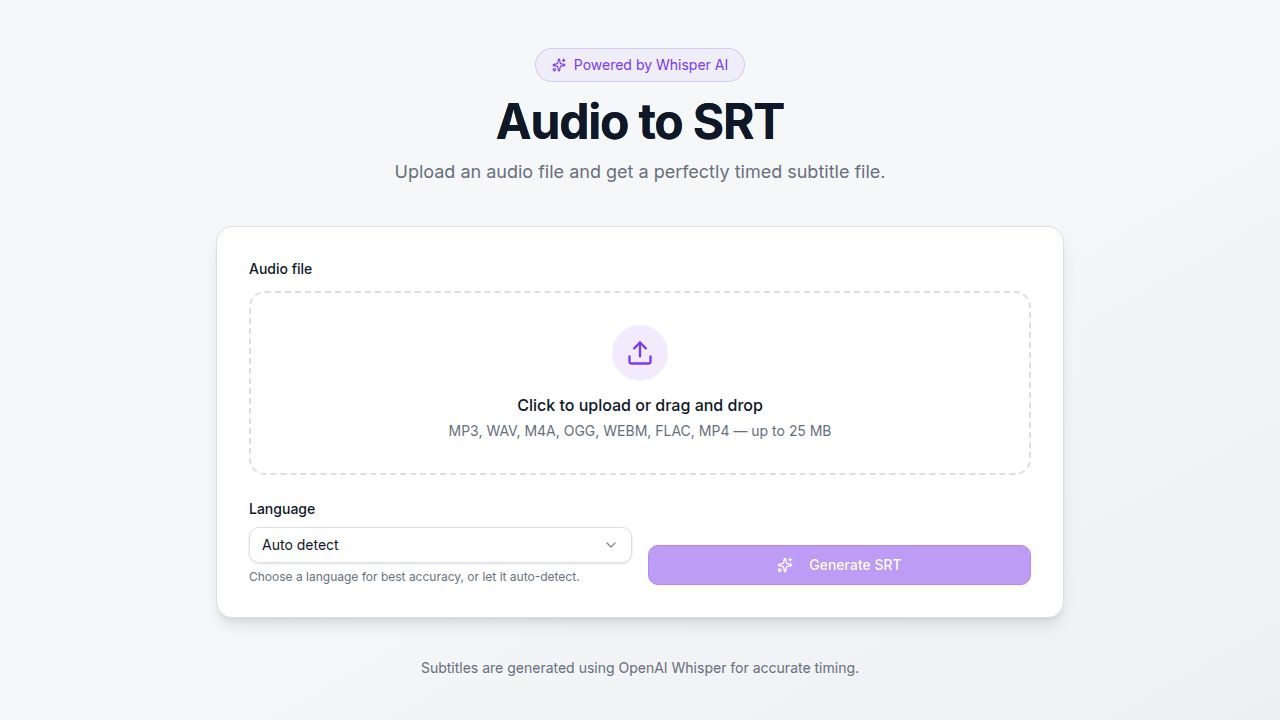
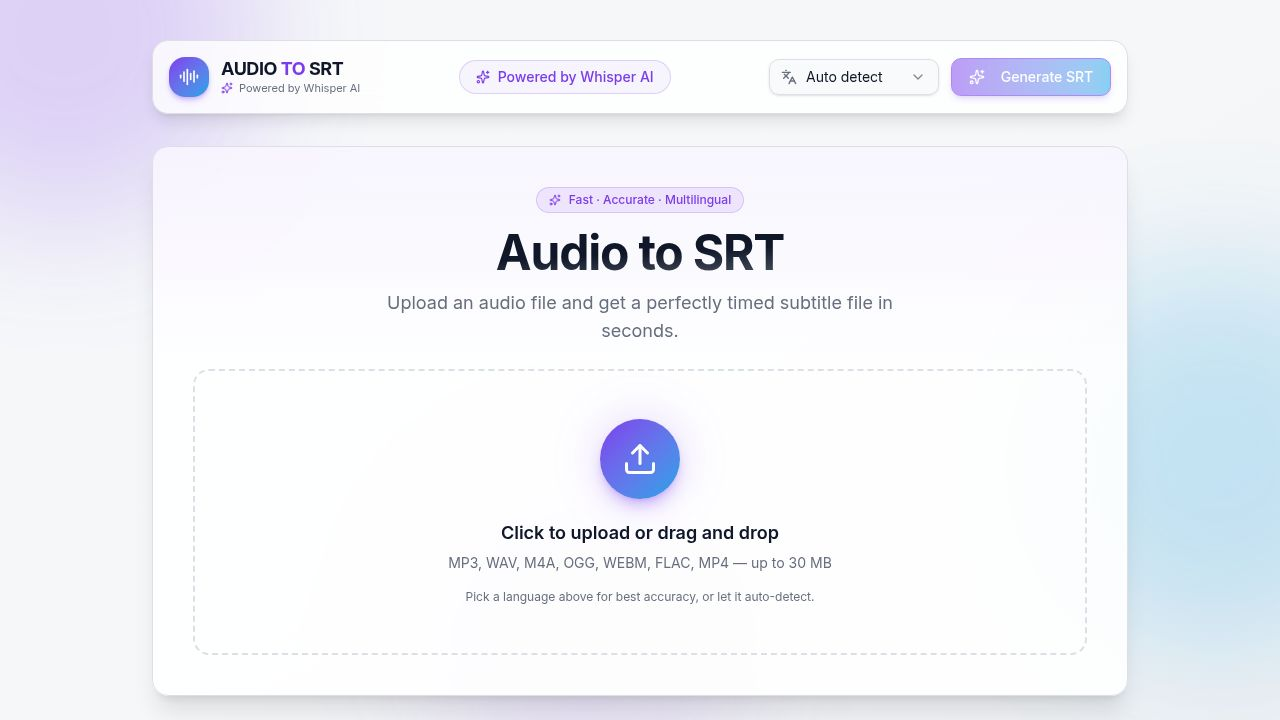
Enhance user interface with premium design and improved layout
Refactors the home page layout to implement a premium design, introducing a new header card for language selection and generation buttons, and a separate, visually enhanced card for file uploads. Includes decorative background elements and gradient styling.

Replit-Commit-Author: Agent
Replit-Commit-Session-Id: 29328d19-0704-43c5-8f36-fda0d7fb3af0
Replit-Commit-Checkpoint-Type: full_checkpoint
Replit-Commit-Event-Id: 04526b5d-4e58-4ae4-8516-e0fb50e7b93e
Replit-Commit-Screenshot-Url: https://storage.googleapis.com/screenshot-production-us-central1/2cfbdfa9-1e64-4b99-a95c-69b1e7c24629/29328d19-0704-43c5-8f36-fda0d7fb3af0/RdA6ZiD
Replit-Helium-Checkpoint-Created: true

diff --git a/artifacts/audio-to-srt/src/pages/home.tsx b/artifacts/audio-to-srt/src/pages/home.tsx
@@ -1,7 +1,6 @@
 import { useRef, useState } from "react";
 import { Button } from "@/components/ui/button";
 import { Card } from "@/components/ui/card";
-import { Label } from "@/components/ui/label";
 import {
   Select,
   SelectContent,
@@ -18,6 +17,8 @@ import {
   Sparkles,
   X,
   CheckCircle2,
+  Languages,
+  AudioLines,
 } from "lucide-react";
 
 const LANGUAGES = [
@@ -154,98 +155,49 @@ export default function Home() {
   }
 
   return (
-    <div className="min-h-screen w-full bg-gradient-to-br from-background via-background to-muted">
-      <div className="mx-auto max-w-4xl px-6 py-12">
-        <header className="mb-10 text-center">
-          <div className="inline-flex items-center gap-2 rounded-full border border-primary/20 bg-primary/5 px-4 py-1.5 text-sm text-primary mb-4">
-            <Sparkles className="h-3.5 w-3.5" />
-            <span>Powered by Whisper AI</span>
-          </div>
-          <h1 className="text-4xl sm:text-5xl font-bold tracking-tight bg-gradient-to-r from-foreground to-foreground/70 bg-clip-text">
-            Audio to SRT
-          </h1>
-          <p className="mt-3 text-muted-foreground text-lg">
-            Upload an audio file and get a perfectly timed subtitle file.
-          </p>
-        </header>
+    <div className="relative min-h-screen w-full overflow-hidden bg-gradient-to-br from-background via-background to-muted">
+      {/* Decorative gradient orbs */}
+      <div className="pointer-events-none absolute -top-40 -left-32 h-96 w-96 rounded-full bg-primary/20 blur-3xl" />
+      <div className="pointer-events-none absolute top-1/3 -right-32 h-96 w-96 rounded-full bg-accent/20 blur-3xl" />
+      <div className="pointer-events-none absolute bottom-0 left-1/3 h-80 w-80 rounded-full bg-primary/10 blur-3xl" />
 
-        <Card className="p-6 sm:p-8 shadow-lg border-card-border">
-          <div className="space-y-6">
-            <div>
-              <Label className="text-sm font-medium mb-3 block">
-                Audio file
-              </Label>
-              <div
-                onDragOver={(e) => {
-                  e.preventDefault();
-                  setIsDragging(true);
-                }}
-                onDragLeave={() => setIsDragging(false)}
-                onDrop={(e) => {
-                  e.preventDefault();
-                  setIsDragging(false);
-                  pickFile(e.dataTransfer.files?.[0]);
-                }}
-                onClick={() => inputRef.current?.click()}
-                className={`relative cursor-pointer rounded-xl border-2 border-dashed p-8 text-center transition-all ${
-                  isDragging
-                    ? "border-primary bg-primary/5"
-                    : "border-border hover:border-primary/50 hover:bg-muted/40"
-                }`}
-              >
-                <input
-                  ref={inputRef}
-                  type="file"
-                  accept="audio/*,video/mp4,.mp3,.wav,.m4a,.ogg,.webm,.flac,.aac,.mp4,.mpeg,.mpga,.opus"
-                  className="hidden"
-                  onChange={(e) => pickFile(e.target.files?.[0])}
-                />
-                {file ? (
-                  <div className="flex items-center justify-between gap-4 text-left">
-                    <div className="flex items-center gap-3 min-w-0">
-                      <div className="flex-shrink-0 h-12 w-12 rounded-lg bg-primary/10 text-primary flex items-center justify-center">
-                        <FileAudio className="h-6 w-6" />
-                      </div>
-                      <div className="min-w-0">
-                        <p className="font-medium truncate">{file.name}</p>
-                        <p className="text-sm text-muted-foreground">
-                          {formatBytes(file.size)}
-                        </p>
-                      </div>
-                    </div>
-                    <Button
-                      variant="ghost"
-                      size="icon"
-                      onClick={(e) => {
-                        e.stopPropagation();
-                        clearFile();
-                      }}
-                      aria-label="Remove file"
-                    >
-                      <X className="h-4 w-4" />
-                    </Button>
-                  </div>
-                ) : (
-                  <div>
-                    <div className="mx-auto h-14 w-14 rounded-full bg-primary/10 text-primary flex items-center justify-center mb-3">
-                      <Upload className="h-7 w-7" />
-                    </div>
-                    <p className="font-medium">Click to upload or drag and drop</p>
-                    <p className="text-sm text-muted-foreground mt-1">
-                      MP3, WAV, M4A, OGG, WEBM, FLAC, MP4 — up to 30 MB
-                    </p>
-                  </div>
-                )}
+      <div className="relative mx-auto max-w-5xl px-4 sm:px-6 py-8 sm:py-10">
+        {/* TOP HEADER CARD */}
+        <Card className="mb-8 p-3 sm:p-4 border-card-border shadow-lg backdrop-blur-xl bg-card/80">
+          <div className="flex flex-col lg:flex-row items-stretch lg:items-center gap-3 lg:gap-4">
+            {/* Brand */}
+            <div className="flex items-center gap-3 min-w-0">
+              <div className="flex-shrink-0 h-10 w-10 rounded-xl bg-gradient-to-br from-primary to-accent flex items-center justify-center shadow-md shadow-primary/30">
+                <AudioLines className="h-5 w-5 text-primary-foreground" />
+              </div>
+              <div className="min-w-0">
+                <h1 className="text-base sm:text-lg font-bold tracking-tight leading-tight">
+                  AUDIO <span className="text-primary">TO</span> SRT
+                </h1>
+                <div className="hidden sm:flex items-center gap-1.5 text-[11px] text-muted-foreground">
+                  <Sparkles className="h-3 w-3 text-primary" />
+                  Powered by Whisper AI
+                </div>
               </div>
             </div>
 
-            <div className="grid sm:grid-cols-2 gap-4">
-              <div>
-                <Label className="text-sm font-medium mb-2 block">
-                  Language
-                </Label>
+            {/* Spacer / center badge for desktop */}
+            <div className="hidden lg:flex flex-1 justify-center">
+              <div className="inline-flex items-center gap-2 rounded-full border border-primary/20 bg-primary/5 px-4 py-1.5 text-sm text-primary">
+                <Sparkles className="h-3.5 w-3.5" />
+                <span className="font-medium">Powered by Whisper AI</span>
+              </div>
+            </div>
+
+            {/* Controls: language + generate */}
+            <div className="flex flex-col sm:flex-row items-stretch sm:items-center gap-2 sm:gap-3 lg:flex-shrink-0">
+              <div className="relative">
+                <Languages className="pointer-events-none absolute left-3 top-1/2 -translate-y-1/2 h-4 w-4 text-muted-foreground z-10" />
                 <Select value={language} onValueChange={setLanguage}>
-                  <SelectTrigger>
+                  <SelectTrigger
+                    aria-label="Language"
+                    className="pl-9 min-w-[170px] bg-background/60 backdrop-blur"
+                  >
                     <SelectValue placeholder="Auto detect" />
                   </SelectTrigger>
                   <SelectContent>
@@ -256,37 +208,121 @@ export default function Home() {
                     ))}
                   </SelectContent>
                 </Select>
-                <p className="text-xs text-muted-foreground mt-1.5">
-                  Choose a language for best accuracy, or let it auto-detect.
-                </p>
               </div>
 
-              <div className="flex items-end">
-                <Button
-                  onClick={handleGenerate}
-                  disabled={!file || loading}
-                  size="lg"
-                  className="w-full"
-                >
-                  {loading ? (
-                    <>
-                      <Loader2 className="h-4 w-4 mr-2 animate-spin" />
-                      Generating...
-                    </>
-                  ) : (
-                    <>
-                      <Sparkles className="h-4 w-4 mr-2" />
-                      Generate SRT
-                    </>
-                  )}
-                </Button>
-              </div>
+              <Button
+                onClick={handleGenerate}
+                disabled={!file || loading}
+                size="default"
+                className="min-w-[160px] bg-gradient-to-r from-primary to-accent hover:opacity-95 shadow-md shadow-primary/30"
+              >
+                {loading ? (
+                  <>
+                    <Loader2 className="h-4 w-4 mr-2 animate-spin" />
+                    Generating...
+                  </>
+                ) : (
+                  <>
+                    <Sparkles className="h-4 w-4 mr-2" />
+                    Generate SRT
+                  </>
+                )}
+              </Button>
+            </div>
+          </div>
+        </Card>
+
+        {/* HERO + UPLOAD CARD */}
+        <Card className="overflow-hidden border-card-border shadow-xl bg-card/90 backdrop-blur-xl">
+          {/* Hero strip inside the card */}
+          <div className="relative px-6 sm:px-10 pt-10 pb-6 text-center bg-gradient-to-b from-primary/5 to-transparent">
+            <div className="inline-flex items-center gap-2 rounded-full border border-primary/20 bg-primary/10 px-3 py-1 text-xs font-medium text-primary mb-4">
+              <Sparkles className="h-3 w-3" />
+              <span>Fast · Accurate · Multilingual</span>
+            </div>
+            <h2 className="text-3xl sm:text-5xl font-bold tracking-tight bg-gradient-to-br from-foreground via-foreground to-foreground/60 bg-clip-text text-transparent">
+              Audio to SRT
+            </h2>
+            <p className="mt-3 text-muted-foreground sm:text-lg max-w-xl mx-auto">
+              Upload an audio file and get a perfectly timed subtitle file in seconds.
+            </p>
+          </div>
+
+          {/* Upload area */}
+          <div className="px-5 sm:px-10 pb-8 sm:pb-10">
+            <div
+              onDragOver={(e) => {
+                e.preventDefault();
+                setIsDragging(true);
+              }}
+              onDragLeave={() => setIsDragging(false)}
+              onDrop={(e) => {
+                e.preventDefault();
+                setIsDragging(false);
+                pickFile(e.dataTransfer.files?.[0]);
+              }}
+              onClick={() => inputRef.current?.click()}
+              className={`relative cursor-pointer rounded-2xl border-2 border-dashed p-8 sm:p-12 text-center transition-all ${
+                isDragging
+                  ? "border-primary bg-primary/10 scale-[1.01]"
+                  : "border-border hover:border-primary/50 hover:bg-primary/5"
+              }`}
+            >
+              <input
+                ref={inputRef}
+                type="file"
+                accept="audio/*,video/mp4,.mp3,.wav,.m4a,.ogg,.webm,.flac,.aac,.mp4,.mpeg,.mpga,.opus"
+                className="hidden"
+                onChange={(e) => pickFile(e.target.files?.[0])}
+              />
+              {file ? (
+                <div className="flex items-center justify-between gap-4 text-left">
+                  <div className="flex items-center gap-4 min-w-0">
+                    <div className="flex-shrink-0 h-14 w-14 rounded-2xl bg-gradient-to-br from-primary to-accent text-primary-foreground flex items-center justify-center shadow-md shadow-primary/30">
+                      <FileAudio className="h-7 w-7" />
+                    </div>
+                    <div className="min-w-0">
+                      <p className="font-semibold truncate text-base">{file.name}</p>
+                      <p className="text-sm text-muted-foreground">
+                        {formatBytes(file.size)} · Ready to transcribe
+                      </p>
+                    </div>
+                  </div>
+                  <Button
+                    variant="ghost"
+                    size="icon"
+                    onClick={(e) => {
+                      e.stopPropagation();
+                      clearFile();
+                    }}
+                    aria-label="Remove file"
+                  >
+                    <X className="h-4 w-4" />
+                  </Button>
+                </div>
+              ) : (
+                <div>
+                  <div className="relative mx-auto h-20 w-20 mb-5">
+                    <div className="absolute inset-0 rounded-full bg-primary/20 blur-xl" />
+                    <div className="relative h-20 w-20 rounded-full bg-gradient-to-br from-primary to-accent text-primary-foreground flex items-center justify-center shadow-lg shadow-primary/30">
+                      <Upload className="h-9 w-9" />
+                    </div>
+                  </div>
+                  <p className="text-lg font-semibold">Click to upload or drag and drop</p>
+                  <p className="text-sm text-muted-foreground mt-1.5">
+                    MP3, WAV, M4A, OGG, WEBM, FLAC, MP4 — up to 30 MB
+                  </p>
+                  <p className="text-xs text-muted-foreground mt-4">
+                    Pick a language above for best accuracy, or let it auto-detect.
+                  </p>
+                </div>
+              )}
             </div>
           </div>
         </Card>
 
         {srt && (
-          <Card className="mt-6 p-6 sm:p-8 shadow-lg border-card-border">
+          <Card className="mt-6 p-6 sm:p-8 shadow-xl border-card-border bg-card/90 backdrop-blur-xl">
             <div className="flex items-center justify-between mb-4 gap-4 flex-wrap">
               <div className="flex items-center gap-2">
                 <CheckCircle2 className="h-5 w-5 text-green-500" />
@@ -296,7 +332,10 @@ export default function Home() {
                 <Button variant="outline" onClick={handleCopy}>
                   Copy
                 </Button>
-                <Button onClick={handleDownload}>
+                <Button
+                  onClick={handleDownload}
+                  className="bg-gradient-to-r from-primary to-accent hover:opacity-95 shadow-md shadow-primary/30"
+                >
                   <Download className="h-4 w-4 mr-2" />
                   Download .srt
                 </Button>
